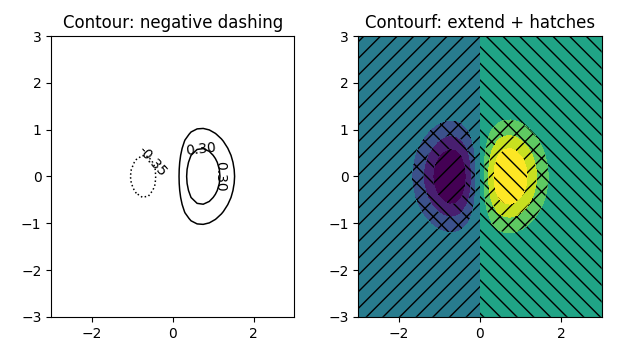
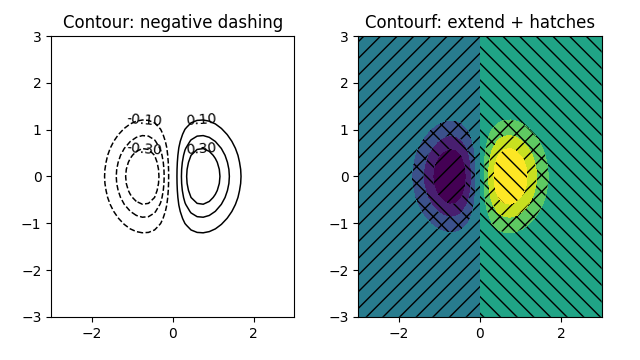
feat: Implement contour styles alignment with Matplotlib and add corresponding tests

Changed region(s): [[0.1562, 0.3056, 0.375, 0.6722], [0.2188, 0.6417, 0.25, 0.6722]]

diff --git a/core/contour_lines.go b/core/contour_lines.go
@@ -70,6 +70,7 @@ func contourGridPolylines(x, y []float64, data [][]float64, levels []float64) ([
 			if len(polyline) < 2 {
 				continue
 			}
+			polyline = rotateClosedLoopToContourpyStart(polyline, x, y)
 			polyline = orientStructuredOpenBoundaryPolyline(polyline, x, y)
 			polylines = append(polylines, polyline)
 			polylineLevels = append(polylineLevels, level)
@@ -329,6 +330,96 @@ func stitchContourSegments(segments [][]geom.Pt) [][]geom.Pt {
 		out = append(out, rotateClosedContourPolylineToMatplotlibStart(polyline))
 	}
 	return out
+}
+
+// rotateClosedLoopToContourpyStart rotates a closed structured-grid contour loop
+// so it begins at the vertex Matplotlib's default contour generator (contourpy
+// "mpl2014") emits first. Go's marching squares yields the same vertex sequence
+// and winding as contourpy, only rotated to a different start; aligning the
+// start makes dash phase (and manual-label tangents) match Matplotlib.
+//
+// contourpy traces boundary-touching loops during its boundary pass and other
+// loops during its interior pass, so the start is:
+//   - the leftmost vertex on the bottom grid boundary, if the loop touches it;
+//   - otherwise the leftmost vertical-grid-edge crossing, ties broken by
+//     minimum y (contourpy's column-major interior cell scan).
+func rotateClosedLoopToContourpyStart(polyline []geom.Pt, x, y []float64) []geom.Pt {
+	if !contourPolylineClosed(polyline) || len(x) < 2 || len(y) < 2 {
+		return polyline
+	}
+	body := polyline[:len(polyline)-1]
+	if len(body) == 0 {
+		return polyline
+	}
+
+	yBottom := math.Min(y[0], y[len(y)-1])
+	best := -1
+	// Phase 1: a loop tangent to the bottom boundary starts at its leftmost
+	// bottom-boundary vertex.
+	for i, p := range body {
+		if math.Abs(p.Y-yBottom) <= 1e-7*(1+math.Abs(yBottom)) {
+			if best < 0 || p.X < body[best].X-1e-9 {
+				best = i
+			}
+		}
+	}
+	if best < 0 {
+		// Phase 2: interior loop — contourpy's row-major cell scan starts at the
+		// leftmost vertical-edge crossing in the bottommost row-band.
+		bestRow := 0
+		for i, p := range body {
+			if !onVerticalGridEdge(p.X, x) {
+				continue
+			}
+			row := gridRowBand(p.Y, y)
+			if best < 0 || row < bestRow ||
+				(row == bestRow && p.X < body[best].X-1e-9) {
+				best = i
+				bestRow = row
+			}
+		}
+	}
+	if best <= 0 {
+		return polyline
+	}
+	out := make([]geom.Pt, 0, len(polyline))
+	out = append(out, body[best:]...)
+	out = append(out, body[:best]...)
+	out = append(out, out[0])
+	return out
+}
+
+// onVerticalGridEdge reports whether px lies on one of the grid's vertical edges
+// (x equals a grid coordinate): a vertical-edge contour crossing.
+func onVerticalGridEdge(px float64, x []float64) bool {
+	for _, gx := range x {
+		if math.Abs(px-gx) <= 1e-7*(1+math.Abs(gx)) {
+			return true
+		}
+	}
+	return false
+}
+
+// gridRowBand returns the index of the grid row-band (cell row) bracketing py,
+// numbered from the bottom of the grid upward regardless of y ordering.
+func gridRowBand(py float64, y []float64) int {
+	ascending := y[len(y)-1] >= y[0]
+	for j := 0; j+1 < len(y); j++ {
+		lo, hi := y[j], y[j+1]
+		if !ascending {
+			lo, hi = hi, lo
+		}
+		if py >= lo-1e-9 && py <= hi+1e-9 {
+			if ascending {
+				return j
+			}
+			return len(y) - 2 - j
+		}
+	}
+	if py < math.Min(y[0], y[len(y)-1]) {
+		return 0
+	}
+	return len(y) - 2
 }
 
 func rotateClosedContourPolylineToMatplotlibStart(polyline []geom.Pt) []geom.Pt {

diff --git a/core/contour_loopstart_test.go b/core/contour_loopstart_test.go
@@ -1,0 +1,44 @@
+package core
+
+import (
+	"testing"
+
+	"github.com/cwbudde/matplotlib-go/geom"
+)
+
+// TestRotateClosedLoopToContourpyStart locks in the loop-start convention that
+// matches Matplotlib's mpl2014 contour generator: an interior loop starts at the
+// leftmost vertical-grid-edge crossing in its bottommost row-band, while a loop
+// tangent to the bottom grid boundary starts at its leftmost boundary vertex.
+// Aligning the start makes dashed-contour phase match Matplotlib.
+func TestRotateClosedLoopToContourpyStart(t *testing.T) {
+	x := []float64{0, 1, 2, 3, 4}
+	y := []float64{0, 1, 2, 3, 4}
+
+	// Interior rectangle loop with vertical-edge crossings at x=1 and x=3,
+	// in row-bands [1,2] (y=1.5) and [2,3] (y=2.5). The bottommost band is
+	// [1,2]; its leftmost vertical crossing is (1,1.5).
+	interior := []geom.Pt{{X: 1, Y: 1.5}, {X: 3, Y: 1.5}, {X: 3, Y: 2.5}, {X: 1, Y: 2.5}, {X: 1, Y: 1.5}}
+	got := rotateClosedLoopToContourpyStart(interior, x, y)
+	if !pointsApprox(got[0], geom.Pt{X: 1, Y: 1.5}, 1e-9) {
+		t.Fatalf("interior loop start = %+v, want leftmost vertical crossing in bottom band (1,1.5)", got[0])
+	}
+	if !contourPolylineClosed(got) {
+		t.Fatal("rotated interior loop must stay closed")
+	}
+
+	// Loop tangent to the bottom boundary (y=0) starts at the leftmost
+	// bottom-boundary vertex.
+	boundary := []geom.Pt{{X: 3, Y: 1}, {X: 2, Y: 0}, {X: 1, Y: 1}, {X: 2, Y: 2}, {X: 3, Y: 1}}
+	got = rotateClosedLoopToContourpyStart(boundary, x, y)
+	if !pointsApprox(got[0], geom.Pt{X: 2, Y: 0}, 1e-9) {
+		t.Fatalf("boundary-tangent loop start = %+v, want bottom-boundary vertex (2,0)", got[0])
+	}
+
+	// Open polylines are left untouched.
+	open := []geom.Pt{{X: 0, Y: 1}, {X: 2, Y: 1}, {X: 4, Y: 1}}
+	got = rotateClosedLoopToContourpyStart(open, x, y)
+	if !pointsApprox(got[0], geom.Pt{X: 0, Y: 1}, 1e-9) {
+		t.Fatalf("open polyline must be unchanged, got start %+v", got[0])
+	}
+}

diff --git a/internal/examplecatalog/catalog.go b/internal/examplecatalog/catalog.go
@@ -165,7 +165,7 @@ var cases = []Case{
 	{ID: "patch_showcase", Topic: "patches", Title: "Patch Showcase", Description: "Rectangles, circles, ellipses, polygons, path patches, fancy arrows, fancy boxes, hatches, alpha, fills, and strokes.", Optional: true, WebDemoID: "patches", Showcase: true, SVGGoldenFamily: "hatch_bars", GoBasicSmokeFamily: "patch_hatch", MinPSNR: 35.0, MaxMeanAbs: 6.5, SkiaParityFamily: "patch_hatch", MaxRMSE: 3.6},
 	{ID: "patch_style_matrix", Topic: "patches", Title: "Patch Style Matrix", FixtureOnly: true, MinPSNR: 22.0, MaxMeanAbs: 20.0, MaxRMSE: 4.2},
 	{ID: "mesh_contour_tri", Topic: "mesh", Title: "Meshes and Contours", Optional: true, WebDemoID: "mesh", Description: "PColorMesh, contour/contourf, Hist2D, triplot, tripcolor, and tricontour.", Showcase: true, GoBasicSmokeFamily: "mesh", MinPSNR: 37.5, MaxMeanAbs: 7.5, SkiaParityFamily: "mesh", MaxRMSE: 2.6},
-	{ID: "contour_styles", Topic: "mesh", Title: "Contour Styles", Optional: true, Description: "Monochrome contour with negative_linestyles dashing; contourf with extend and cycled hatches.", Width: 640, Height: 360, MaxRMSE: 4.6},
+	{ID: "contour_styles", Topic: "mesh", Title: "Contour Styles", Optional: true, Description: "Monochrome contour with negative_linestyles dashing and clabel format-string labels; contourf with extend and cycled hatches.", Width: 640, Height: 360, MaxRMSE: 2.8},
 	// Axis-below ratchet: showcase grids now mirror Matplotlib set_axisbelow(True);
 	// refreshed golden-vs-reference RMSE is 2.29.
 	{ID: "plot_variants", Topic: "variants", Title: "Plot Variants", Optional: true, WebDemoID: "variants", Description: "Step, stairs, reference lines, spans, broken bars, and stacked bars.", Showcase: true, GoBasicSmokeFamily: "variants", MinPSNR: 35.0, MaxMeanAbs: 6.5, MaxRMSE: 2.6},

diff --git a/examples/contour_styles/example.go b/examples/contour_styles/example.go
@@ -52,30 +52,28 @@ func Plot() *core.Figure {
 	lineWidth := 1.5
 
 	// Left: monochrome contour lines. Negative levels dash by default
-	// (negative_linestyles); clabel format-string/dict and rightside_up are
-	// covered by unit tests, and inline-label placement parity by
-	// mesh_contour_tri.
+	// (negative_linestyles), and clabel applies a "%.2f" format string with
+	// inline labels.
 	lineAx := fig.AddAxes(geom.Rect{Min: geom.Pt{X: 0.08, Y: 0.12}, Max: geom.Pt{X: 0.46, Y: 0.90}})
 	lineAx.SetTitle("Contour: negative dashing")
 	lineAx.SetXLim(-3, 3)
 	lineAx.SetYLim(-3, 3)
-	negStyle := "dotted"
 	cs := lineAx.Contour(z, core.ContourOptions{
-		X:                  xs,
-		Y:                  ys,
-		Levels:             []float64{-0.35, 0.15, 0.3},
-		Color:              &black,
-		LineWidth:          &lineWidth,
-		NegativeLineStyles: &negStyle,
+		X:         xs,
+		Y:         ys,
+		Levels:    []float64{-0.3, -0.2, -0.1, 0.1, 0.2, 0.3},
+		Color:     &black,
+		LineWidth: &lineWidth,
 	})
 	noInline := false
 	lineAx.Clabel(cs, core.ClabelOptions{
 		FormatString: "%.2f",
 		Inline:       &noInline,
 		ManualPositions: []geom.Pt{
-			{X: -0.7, Y: 0.2},
-			{X: 1.3, Y: 0},
-			{X: 0.7, Y: 0.5},
+			{X: -0.7, Y: 0.6},
+			{X: -0.7, Y: 1.21},
+			{X: 0.7, Y: 0.6},
+			{X: 0.7, Y: 1.21},
 		},
 	})
 

diff --git a/test/matplotlib_ref/plots/contour_styles.py b/test/matplotlib_ref/plots/contour_styles.py
@@ -38,14 +38,13 @@ def contour_styles(out_dir):
     line_ax.set_ylim(-3, 3)
     cs = line_ax.contour(
         xs, ys, z,
-        levels=[-0.35, 0.15, 0.3],
+        levels=[-0.3, -0.2, -0.1, 0.1, 0.2, 0.3],
         colors=[(0.0, 0.0, 0.0, 1.0)],
         linewidths=lw(1.5),
-        negative_linestyles="dotted",
     )
     line_ax.clabel(
         cs, fmt="%.2f", inline=False,
-        manual=[(-0.7, 0.2), (1.3, 0.0), (0.7, 0.5)],
+        manual=[(-0.7, 0.6), (-0.7, 1.21), (0.7, 0.6), (0.7, 1.21)],
     )
 
     # Right: filled contour with extend="both" (under/over bands) and hatches

diff --git a/PLAN.md b/PLAN.md
@@ -398,10 +398,21 @@ match Matplotlib defaults, not just the happy path.
       fix: AGG hatch strokes are now always anti-aliased independent of the
       fill's AA (contourf bands are `antialiased=False` but their hatch lines
       are AA in Matplotlib) — dropped hatched-contourf reference RMSE 26→0.55.
-      New `contour_styles` parity case (RMSE 4.15); style resolution, extend,
-      hatch cycling, and label formatting unit-tested (`core/contour_styles_test.go`,
-      `core/contour_label_format_test.go`). _Deferred: colorbar extend triangles,
-      log-scale extend, accent/`format_ticks` list semantics._
+      Also ported contourpy's closed-loop start-vertex convention
+      (`rotateClosedLoopToContourpyStart`, `core/contour_lines.go`): Go's marching
+      squares produced the same vertices/winding as mpl2014 but rotated to a
+      different start, throwing dashed-contour dash phase ~anti-phase (RMSE 9);
+      aligning the start (bottom-boundary-tangent loops at their leftmost boundary
+      vertex; interior loops at the leftmost vertical-edge crossing in the
+      bottommost row-band) drops dashed parity to RMSE 0.07 with no regression
+      (mesh*contour_tri stays 2.32). New `contour_styles` parity case (RMSE 2.50,
+      negative dashing + `%.2f` labels + extend + hatches); style resolution,
+      extend, hatch cycling, label formatting, and the loop-start rule unit-tested
+      (`core/contour_styles_test.go`, `core/contour_label_format_test.go`,
+      `core/contour_loopstart_test.go`). \_Deferred: full contourpy `locate_label`
+      port (Go's inline auto-label placement still differs on asymmetric loops;
+      manual placement matches); colorbar extend triangles, log-scale extend,
+      accent/`format_ticks` list semantics.*
 - [ ] **Colorbar** norm-aware locators for SymLog/Power/TwoSlope/Centered +
       `NoNorm` IndexLocator (`core/colorbar_scale.go:118`); `extendfrac`; minor
       ticks.
